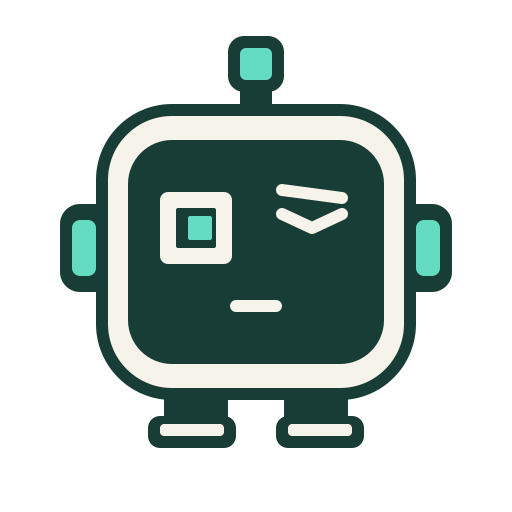
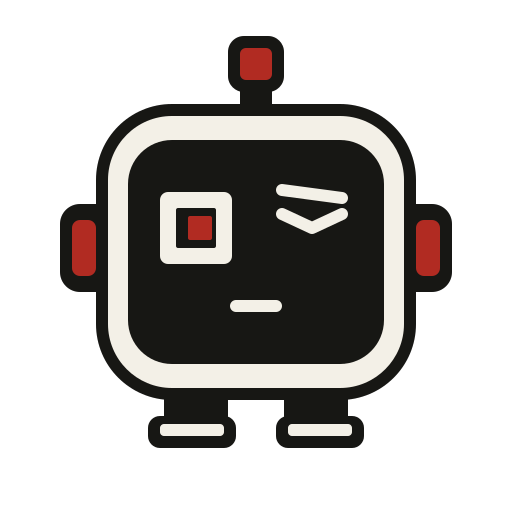
feat(brand): redraw mark and media assets

Changed region(s): [[0.0938, 0.0625, 0.9062, 0.875]]

diff --git a/brand/palettes.md b/brand/palettes.md
@@ -1,46 +1,12 @@
-# Paletas CodifyQR
+# CodifyQR / Printed matter
 
-Cores sRGB. Cada paleta tem um único acento, ajustado por modo.
+A interface usa papel, tinta e um vermelho de sinalização. Linhas de 1 px, rótulos monoespaçados e módulos quadrados vêm da construção do QR. O código gerado continua com suas próprias opções de cor.
 
-## A / Pátio
-
-Azulejo, papel e verde: próximo, calmo e preciso.
-
-| Modo | Fundo | Texto | Acento | Texto/fundo | Acento/fundo | Texto no acento | Contraste no acento |
+| Modo | Papel | Superfície | Tinta | Texto secundário | Sinal | Sinal sobre fundo | Texto no sinal |
 | --- | --- | --- | --- | --- | --- | --- | --- |
-| Claro | `#F5F3EA` | `#183C36` | `#167568` | 10.87:1 | 5.00:1 | `#F5F3EA` | 5.00:1 |
-| Escuro | `#102A27` | `#EDF6F1` | `#63DCC2` | 13.78:1 | 9.08:1 | `#102A27` | 9.08:1 |
+| Claro | `#F3F0E7` | `#F9F7F0` | `#171714` | `#6B6760` | `#B12B22` | 5.69:1 | 5.69:1 |
+| Escuro | `#171714` | `#211F1C` | `#F3F0E7` | `#BCB7AD` | `#FF6B57` | 6.41:1 | 6.41:1 |
 
-## B / Pulso
+Texto/fundo: 15.76:1 nos dois modos. Texto secundário/fundo: 4.94:1 no claro e 8.99:1 no escuro. Os pares atendem WCAG AA para texto normal. Cálculo: luminância relativa sRGB conforme WCAG 2.2, com razão `(L_maior + 0.05) / (L_menor + 0.05)`.
 
-Violeta e gelo: digital, expressivo e experimental.
-
-| Modo | Fundo | Texto | Acento | Texto/fundo | Acento/fundo | Texto no acento | Contraste no acento |
-| --- | --- | --- | --- | --- | --- | --- | --- |
-| Claro | `#F5F3FF` | `#211A3A` | `#5B3FD6` | 15.03:1 | 6.12:1 | `#F5F3FF` | 6.12:1 |
-| Escuro | `#151123` | `#F4F0FF` | `#B5A0FF` | 16.50:1 | 8.30:1 | `#151123` | 8.30:1 |
-
-## C / Barro
-
-Terracota e areia: tátil, acolhedor e editorial.
-
-| Modo | Fundo | Texto | Acento | Texto/fundo | Acento/fundo | Texto no acento | Contraste no acento |
-| --- | --- | --- | --- | --- | --- | --- | --- |
-| Claro | `#FFF4E8` | `#39241E` | `#AD442D` | 13.40:1 | 5.32:1 | `#FFF4E8` | 5.32:1 |
-| Escuro | `#251914` | `#FFF0E4` | `#FFAB7F` | 15.34:1 | 9.27:1 | `#251914` | 9.27:1 |
-
-## Cálculo e uso
-
-Cálculo WCAG: linearizar cada canal sRGB (`c/12.92` se `c ≤ 0.04045`; `((c + 0.055)/1.055)^2.4` nos demais casos), calcular `L = 0.2126R + 0.7152G + 0.0722B` e `(L_maior + 0.05)/(L_menor + 0.05)`.
-
-As decisões usam valores sem arredondamento; a tabela mostra duas casas. Todos os pares da tabela atendem AA para texto normal (4.5:1). Todos os pares texto/fundo também atendem AAA (7:1). Os resultados pressupõem cores opacas, sem imagem ou padrão atrás do texto.
-
-O texto de um botão preenchido usa a coluna ‘Texto no acento’. Não aplique automaticamente a cor de texto da página sobre o acento.
-
-Recomendação: A / Pátio. O verde diferencia a marca sem depender de cores de alerta, e o papel aproxima o azulejo de um objeto impresso.
-
-Os SVGs principais usam A. No mascote, a carcaça clara e o visor escuro formam um núcleo opaco que funciona nos seis fundos. Para adaptar à paleta, substitua a tinta, o papel e o detalhe de acento. A folha `palettes.svg` mostra as seis adaptações; no modo escuro, mantenha a carcaça clara e o visor escuro.
-
-A expressão e o rótulo comunicam o estado; o acento é igual em OK, risco e falha. No produto, acompanhe o mascote de texto acessível. O padrão é decorativo e não deve entrar na área livre do QR nem servir de fundo para texto corrido.
-
-A validação de contraste desta paleta não mede a leitura de QR. A leitura deve ser conferida sobre o QR final exportado.
+Fontes: pilha de sistema para títulos e leitura; pilha monoespaçada de sistema para rótulos, navegação e estados. Nenhum arquivo de fonte é carregado.
